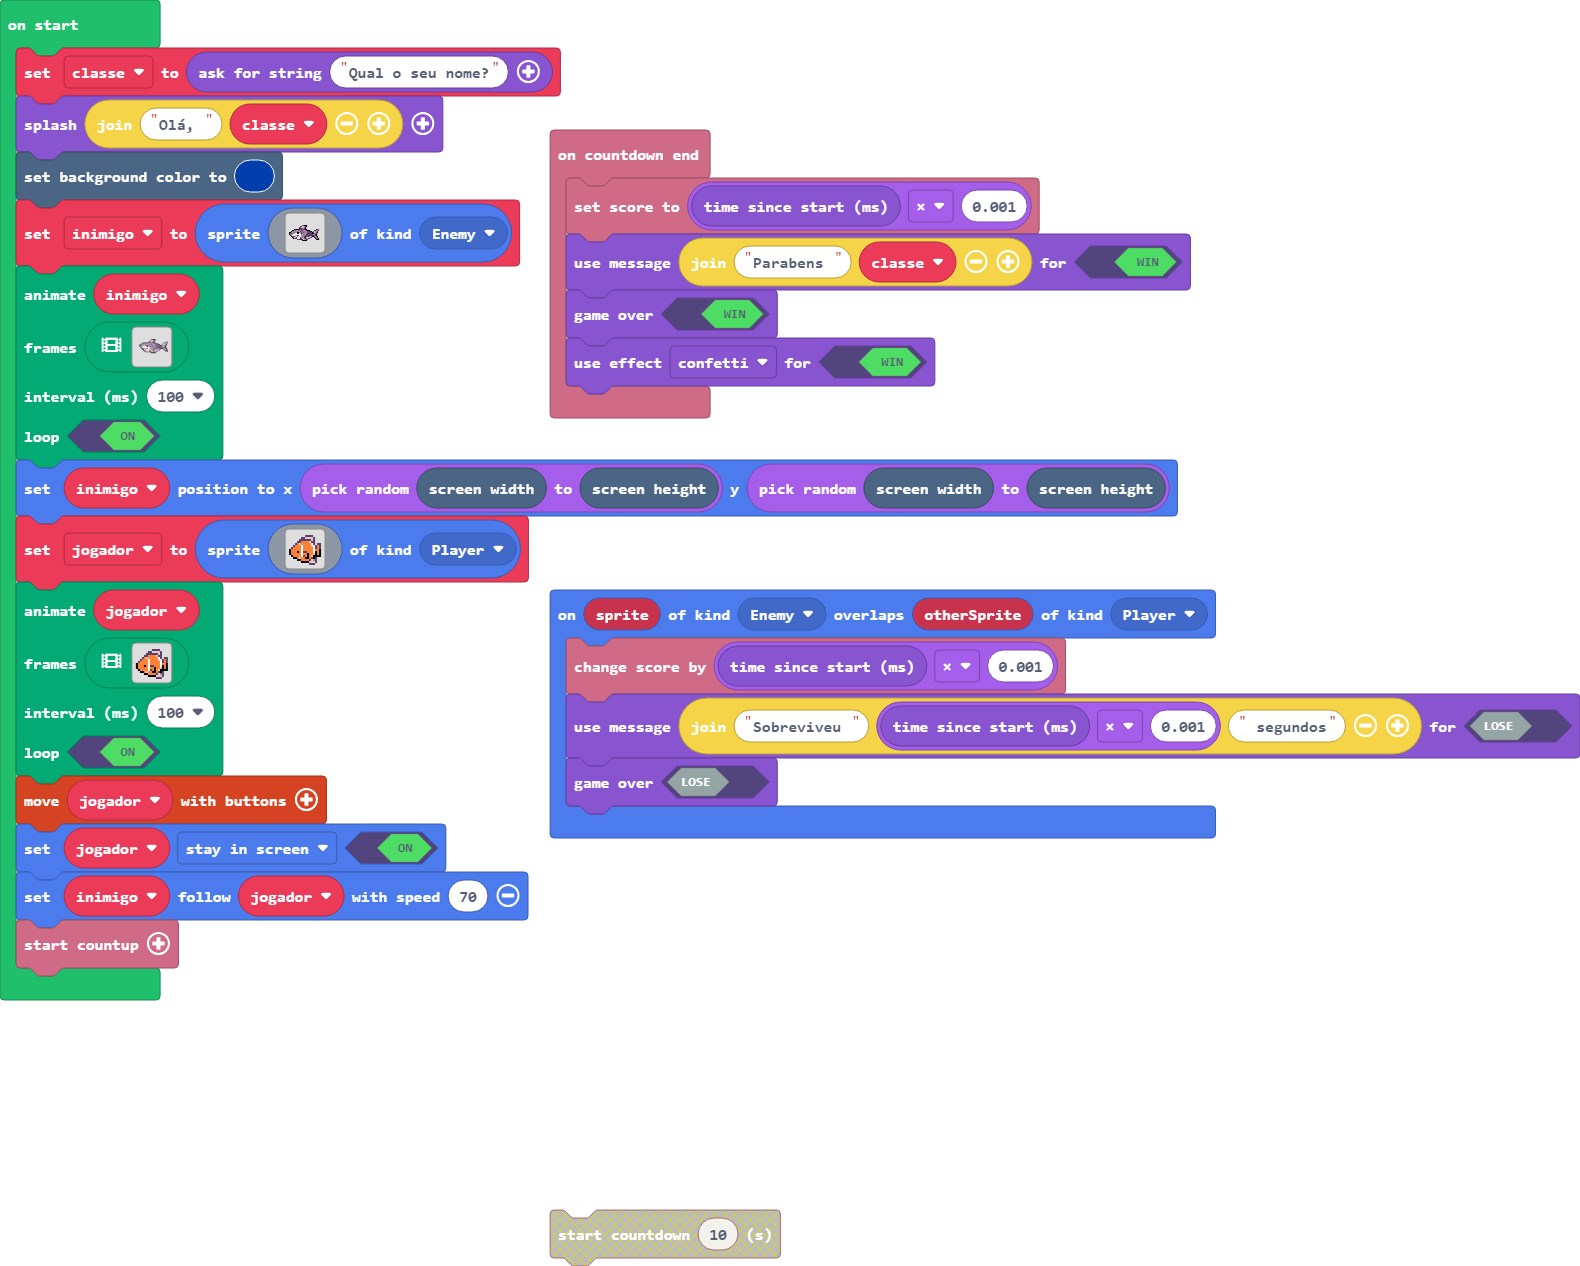
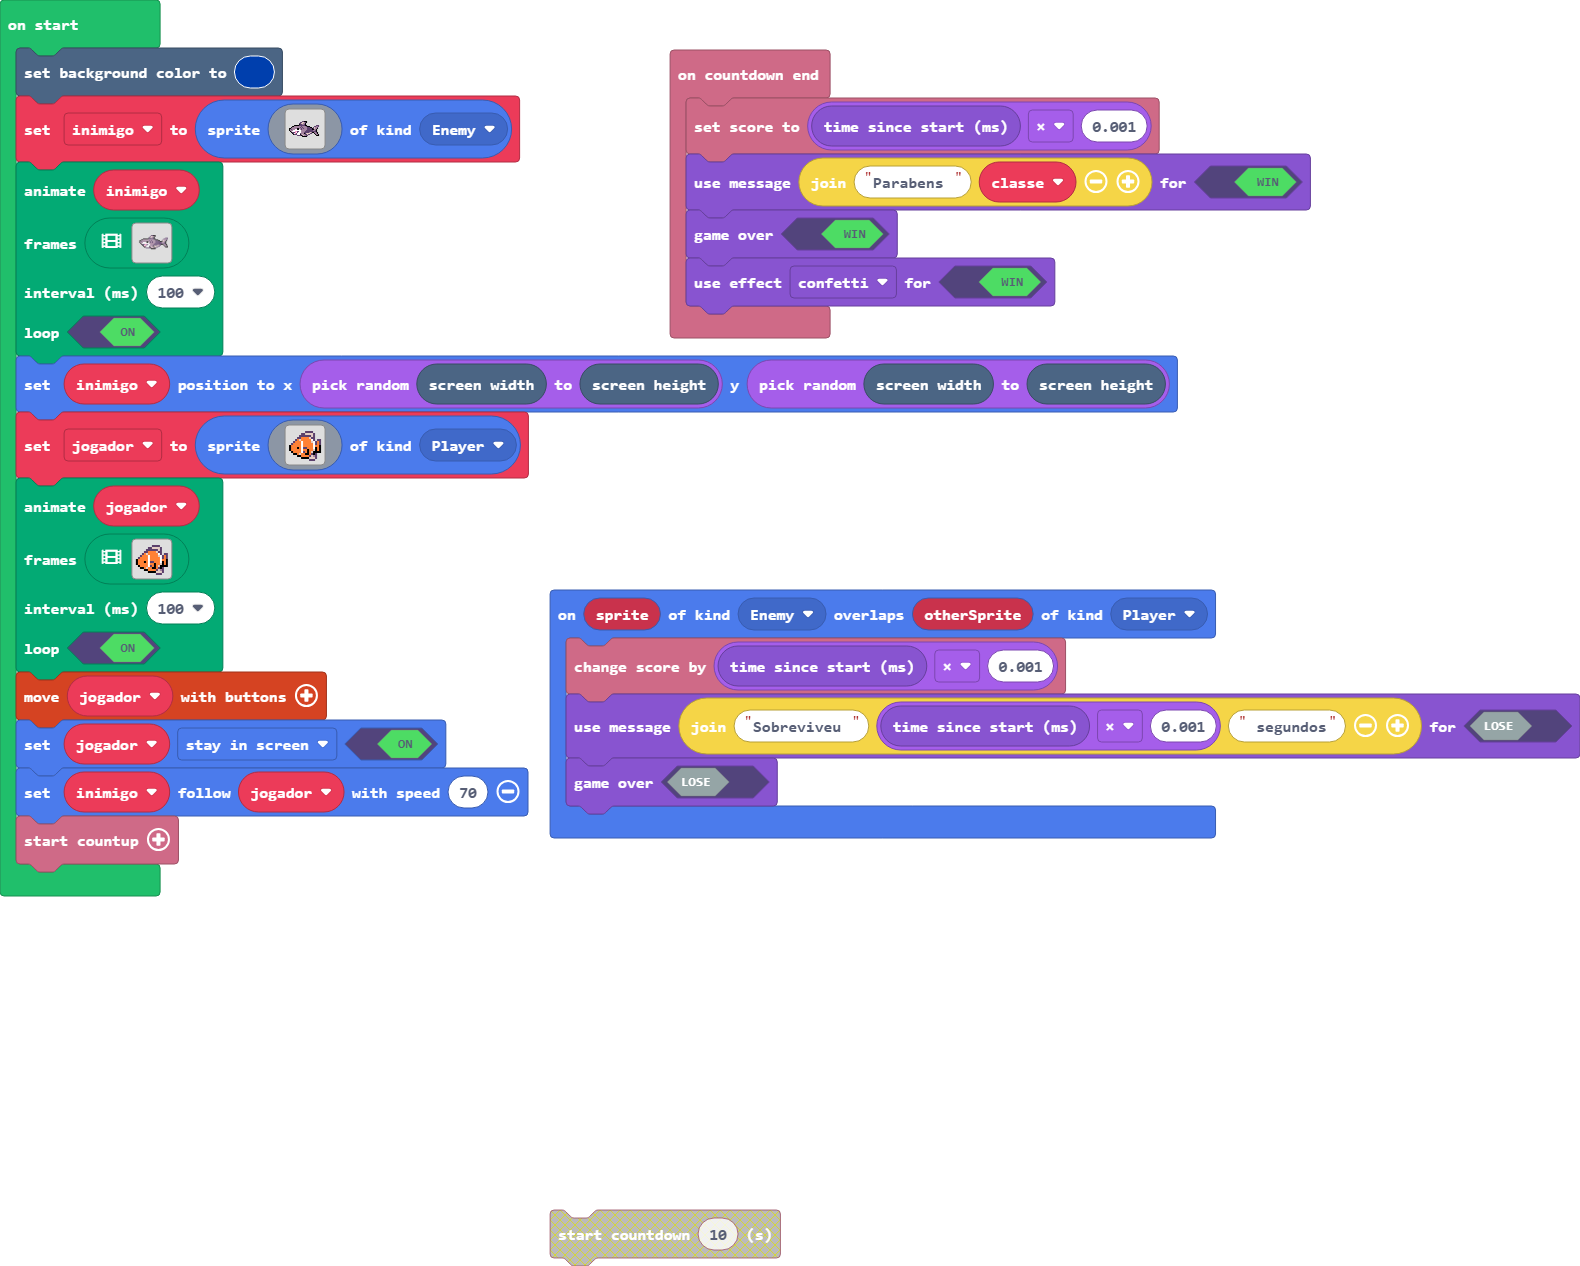
Update main.blocks, main.ts

Changed region(s): [[0.0, 0.0308, 0.8373, 0.8009]]

diff --git a/main.ts b/main.ts
@@ -1,4 +1,5 @@
 info.onCountdownEnd(function () {
+    let classe = 0
     info.setScore(game.runtime() * 0.001)
     game.setGameOverMessage(true, "Parabens " + classe)
     game.gameOver(true)
@@ -9,9 +10,6 @@ sprites.onOverlap(SpriteKind.Enemy, SpriteKind.Player, function (sprite, otherSp
     game.setGameOverMessage(false, "Sobreviveu " + game.runtime() * 0.001 + " segundos")
     game.gameOver(false)
 })
-let classe = ""
-classe = game.askForString("Qual o seu nome?")
-game.splash("Olá, " + classe)
 scene.setBackgroundColor(8)
 let inimigo = sprites.create(img`
     .............ccfff..............
